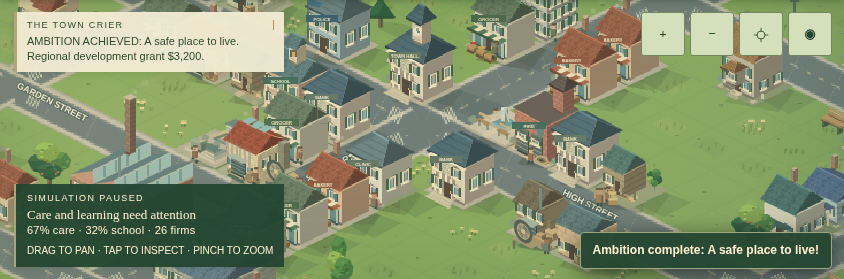
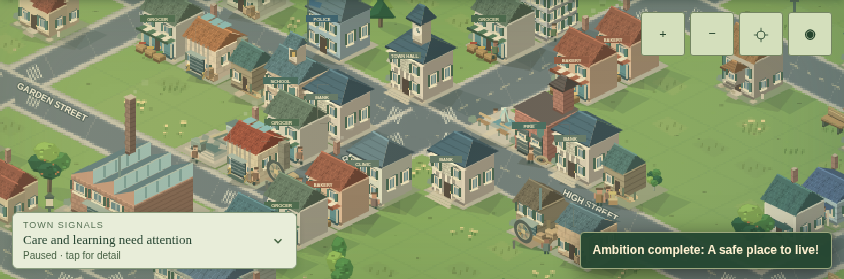
Integrate civic projects and world art with owned physical freight

Changed region(s): [[0.0, 0.6595, 0.3697, 0.9749], [0.0, 0.0287, 0.3389, 0.2581]]

diff --git a/assets/game.js b/assets/game.js
@@ -1435,7 +1435,7 @@ function returnExportCargo(o){const f=G.firms[o.firm];if(f.closed||o.estateOwner
 function cancelRegionalShipment(id){const o=ensureRegionalTrade().shipments.find(o=>o.id===id);if(!o||o.direction==='export'&&o.stage==='outside'||o.stage==='delivering')return false;o.cancelRequested=true;return true;}
 function logisticsReturnStage(o){const m=OUTSIDE_MARKETS.find(m=>m.id===o.market),f=G.firms[o.firm],path=regionalRoadPath(f,m);if(o.direction==='import'){const returningPath=o.stage==='delivering'?o.path.slice().reverse():o.path.slice(0,o.depotIndex+1).reverse();setLogisticsStage(o,'returning',returningPath,G.day,Math.max(1,Math.ceil(returningPath.length/24)));}else{const homePath=o.path.slice(0,o.depotIndex+1).reverse();setLogisticsStage(o,'returning',homePath,G.day,Math.max(1,Math.ceil(homePath.length/24)));}}
 function handleLogisticsQueue(o,depots,s){const d=depots.find(d=>d.id===o.depot);if(!d){o.depot=-1;o.status='Depot unavailable; interchange fallback';return false;}let used=s.handling.used[d.id]||0,available=Math.max(0,d.capacity-used),remaining=o.qty-o.handled;if(d.id===-1&&s.reliefUntil>=G.day&&available<remaining){const extra=Math.min(300-s.handling.relief,remaining-available,G.treasury/.36);if(extra>0){G.treasury-=extra*.36;G.region+=extra*.36;G.cumulative.spending+=extra*.36;G.cumulative.logisticsSupport=(G.cumulative.logisticsSupport||0)+extra*.36;s.handling.relief+=extra;available+=extra;}}const fee=o.handlingFee||.04,units=Math.min(remaining,available,d.id<0?Infinity:G.region/fee);if(units<=.00001)return false;const receipts=units*fee;if(d.id>=0){G.region-=receipts;enterpriseRevenue(G.firms[d.id],receipts);G.firms[d.id].logisticsReceipts=(G.firms[d.id].logisticsReceipts||0)+receipts;}o.handled+=units;s.handling.used[d.id]=used+units;s.handling.fees+=receipts;return o.handled+1e-8>=o.qty;}
-function settleRegionalArrival(o){const f=G.firms[o.firm],s=ensureRegionalTrade();if(o.direction==='import'){if(f.closed||o.estateOwner!=null){logisticsReturnStage(o);return false}f.stock[o.good]=(f.stock[o.good]||0)+o.qty;}else{const gross=o.qty*o.price;if(G.region+1e-8<gross){o.status='Buyer awaiting liquidity';o.stage='awaiting-payment';o.stageDue=G.day+1;return false}G.region-=gross;if(o.estateOwner!=null||f.closed)estateReceipt(f,gross,o.estateOwner??f.owner);else{enterpriseRevenue(f,gross);f.pendingCogs=(f.pendingCogs||0)+o.inventoryCost;f.pendingSalesQty=(f.pendingSalesQty||0)+o.qty;}goodsEntry(o.good,'exports',o.qty);if(G.market)G.market.externalSales+=gross;const c=s.contracts.find(c=>c.id===o.contract);if(c)c.delivered+=o.qty;}s.delivered++;if(typeof civicProjectRecordArrival==='function')civicProjectRecordArrival(o);logisticsRemember(o,'Delivered');return true;}
+function settleRegionalArrival(o){const f=G.firms[o.firm],s=ensureRegionalTrade();if(o.direction==='import'){if(f.closed||o.estateOwner!=null){logisticsReturnStage(o);return false}f.stock[o.good]=(f.stock[o.good]||0)+o.qty;}else{const gross=o.qty*o.price;if(G.region+1e-8<gross){o.status='Buyer awaiting liquidity';o.stage='awaiting-payment';o.stageDue=G.day+1;return false}G.region-=gross;if(o.estateOwner!=null||f.closed)estateReceipt(f,gross,o.estateOwner??f.owner);else{enterpriseRevenue(f,gross);f.pendingCogs=(f.pendingCogs||0)+o.inventoryCost;f.pendingSalesQty=(f.pendingSalesQty||0)+o.qty;}goodsEntry(o.good,'exports',o.qty);if(G.market)G.market.externalSales+=gross;const c=s.contracts.find(c=>c.id===o.contract);if(c)c.delivered+=o.qty;}s.delivered++;if(typeof civicProjectRecordArrival==='function')civicProjectRecordArrival({...o,status:'Delivered',arrived:G.day});logisticsRemember(o,'Delivered');return true;}
 function regionalLogisticsDay(){
  const s=ensureRegionalTrade();if(s.lastLogisticsDay===G.day)return;s.lastLogisticsDay=G.day;s.handling={day:G.day,used:{},fees:0,relief:0};for(const f of G.firms)f.logisticsReceipts=0;settleLogisticsClaims();const depots=logisticsDepots(),keep=[];
  const priority=o=>s.priority==='essentials'?(o.direction==='import'&&o.good==='food'?-2:o.direction==='import'?-1:0):s.priority==='contracts'&&o.contract?-2:0;
@@ -1462,12 +1462,12 @@ regionalFreightDay=regionalLogisticsDay;
 const logisticsLiquidationBase=liquidateFirm;liquidateFirm=function(f,reason){if(f&&!f.closed){for(const o of G.regionalTrade?.shipments||[])if(o.firm===f.id){o.estateOwner=f.owner;o.cancelRequested=true}for(const c of G.regionalTrade?.claims||[])if(c.firm===f.id)c.estateOwner=f.owner;}return logisticsLiquidationBase(f,reason)};
 function regionalShipmentVisualState(o){if(!o.stage||o.stage==='legacy-transit')return null;if(['outside','return-outside','origin-loading','awaiting-payment'].includes(o.stage))return{visible:false};return{visible:true,path:o.activePath?.length?o.activePath:o.path,started:o.stageStarted,travelDays:Math.max(1,o.stageDays),parked:['loading','unloading'].includes(o.stage)};}
 const basicTradeValidator=validateRegionalTrade;
-validateRegionalTrade=function(data){const s=data.regionalTrade;if(!s||s.version===1)return basicTradeValidator(data);if(s.version!==2||!basicTradeValidator({...data,regionalTrade:{...s,version:1}}))return false;if(s.routePreference!=null&&!['automatic','interchange','depots'].includes(s.routePreference))return false;if(!['balanced','essentials','contracts'].includes(s.priority)||!Array.isArray(s.claims)||s.claims.length>data.firms.length*3||!Number.isSafeInteger(s.cancelled)||s.cancelled<0||!Number.isInteger(s.reliefUntil)||s.reliefUntil<0||s.reliefUntil>data.day+30||!s.handling||!Number.isInteger(s.handling.day)||s.handling.day<0||s.handling.day>data.day||typeof s.handling.used!=='object'||Array.isArray(s.handling.used))return false;
+validateRegionalTrade=function(data){const s=data.regionalTrade;if(s){const validFirm=id=>Number.isInteger(id)&&id>=0&&id<data.firms.length;for(const rows of [s.shipments,s.recent,s.contracts])if(!Array.isArray(rows)||rows.some(o=>!o||!validFirm(o.firm)))return false;}if(!s||s.version===1)return basicTradeValidator(data);if(s.version!==2||!basicTradeValidator({...data,regionalTrade:{...s,version:1}}))return false;if(s.routePreference!=null&&!['automatic','interchange','depots'].includes(s.routePreference))return false;if(!['balanced','essentials','contracts'].includes(s.priority)||!Array.isArray(s.claims)||s.claims.length>data.firms.length*3||!Number.isSafeInteger(s.cancelled)||s.cancelled<0||!Number.isInteger(s.reliefUntil)||s.reliefUntil<0||s.reliefUntil>data.day+30||!s.handling||!Number.isInteger(s.handling.day)||s.handling.day<0||s.handling.day>data.day||typeof s.handling.used!=='object'||Array.isArray(s.handling.used))return false;
  const contractIDs=new Set();if(s.contracts.some(c=>!Number.isInteger(c.id)||c.id<1||c.id>s.serial||contractIDs.has(c.id)||(contractIDs.add(c.id),false)||!Number.isInteger(c.deadline)||c.deadline<1||c.deadline>data.day+T*T))return false;
  const owner=id=>id==null||Number.isInteger(id)&&id>=-1&&id<data.households.length,amount=n=>Number.isFinite(n)&&n>=0&&n<=1e12,roadPath=p=>Array.isArray(p)&&p.length<=T*T&&p.every((id,i)=>Number.isInteger(id)&&id>=0&&id<T*T&&(!i||Math.abs(id%T-p[i-1]%T)+Math.abs((id/T|0)-(p[i-1]/T|0))===1));
  if(![s.handling.fees,s.handling.relief].every(amount)||Object.entries(s.handling.used).some(([id,n])=>!amount(n)||!(id==='-1'||data.firms[+id]?.kind==='warehouse')))return false;
- if(s.claims.some(c=>!c||!data.firms[c.firm]||!owner(c.estateOwner)||!amount(c.regional)||!amount(c.treasury)||!Number.isInteger(c.created)||c.created<1||c.created>data.day))return false;
- return s.shipments.every(o=>LOGISTICS_STAGES.includes(o.stage)&&Number.isInteger(o.stageStarted)&&o.stageStarted>=o.started&&o.stageStarted<=data.day&&Number.isInteger(o.stageDue)&&o.stageDue>=o.stageStarted&&o.stageDue<=data.day+T*T&&Number.isInteger(o.stageDays)&&o.stageDays>=1&&o.stageDays<=T*T&&roadPath(o.activePath)&&Number.isInteger(o.depot)&&(o.depot===-1||data.firms[o.depot]?.kind==='warehouse')&&Number.isInteger(o.depotIndex)&&o.depotIndex>=0&&o.depotIndex<o.path.length&&Number.isFinite(o.handled)&&o.handled>=0&&o.handled<=o.qty+1e-7&&[o.principal,o.tariff,o.handlingFee].every(amount)&&typeof o.cancelRequested==='boolean'&&owner(o.estateOwner));
+ if(s.claims.some(c=>!c||!Number.isInteger(c.firm)||c.firm<0||!data.firms[c.firm]||!owner(c.estateOwner)||!amount(c.regional)||!amount(c.treasury)||!Number.isInteger(c.created)||c.created<1||c.created>data.day))return false;
+ return s.shipments.every(o=>o.qty<=1e8&&o.price<=1e8&&amount(o.inventoryCost)&&amount(o.freight)&&LOGISTICS_STAGES.includes(o.stage)&&Number.isInteger(o.stageStarted)&&o.stageStarted>=o.started&&o.stageStarted<=data.day&&Number.isInteger(o.stageDue)&&o.stageDue>=o.stageStarted&&o.stageDue<=data.day+T*T&&Number.isInteger(o.stageDays)&&o.stageDays>=1&&o.stageDays<=T*T&&roadPath(o.activePath)&&Number.isInteger(o.depot)&&(o.depot===-1||data.firms[o.depot]?.kind==='warehouse')&&Number.isInteger(o.depotIndex)&&o.depotIndex>=0&&o.depotIndex<o.path.length&&Number.isFinite(o.handled)&&o.handled>=0&&o.handled<=o.qty+1e-7&&[o.principal,o.tariff,o.handlingFee].every(amount)&&typeof o.cancelRequested==='boolean'&&owner(o.estateOwner));
 };
 
 function rerouteRegionalShipment(id, depot) {
@@ -1480,7 +1480,7 @@ function rerouteRegionalShipment(id, depot) {
  const charge=o.qty*(.03+Math.max(0,q.freight-o.freight/o.qty));if(f.cash<charge)return false;
  f.cash-=charge;G.region+=charge;o.freight+=charge;
  if(o.direction==='import'){const held=(f.stock[o.good]||0)+pendingGoods(f,o.good);f.unitCost[o.good]=(f.unitCost[o.good]||marketPrice(o.good))+charge/Math.max(o.qty,held);}else regionalExpense(f,charge);
- o.path=newPath;o.depotIndex=index;o.depot=q.depot;o.pickupDays=q.pickupDays;o.gatewayDays=q.gatewayDays;o.handlingFee=q.handlingFee;
+ s.routeRevision=(s.routeRevision||0)+1;o.path=newPath;o.depotIndex=index;o.depot=q.depot;o.pickupDays=q.pickupDays;o.gatewayDays=q.gatewayDays;o.handlingFee=q.handlingFee;
  setLogisticsStage(o,'collecting',transfer.slice(),G.day,Math.max(1,Math.ceil(transfer.length/24)));o.due=Math.max(o.due,G.day+o.stageDays+o.pickupDays+o.gatewayDays+m.days+1);return true;
 }
 function procurementLeadDays(f,good){if(!G.policy.imports)return 3;const quotes=OUTSIDE_MARKETS.map(m=>regionalQuote(f,m,good,'import')).filter(Boolean).sort((a,b)=>a.price+a.freight-b.price-b.freight);return quotes.length?clamp(quotes[0].days,3,20):3;}
@@ -4423,23 +4423,18 @@ function civicProjectObservation(p){
  return {met,evidence:privateRoute?'Target family '+fmt(p.learning||0)+' paid learner-days · '+terms+' fee-funded terms completed':'Target household teaching access '+fmt(coverage*100)+'% · '+terms+' new adult training terms completed',detail:privateRoute?'Purchase 30 quality-adjusted learner-days for the named household, complete one actual fee-funded term in town, and retain 20 authorized spending days. Independent proposals need financing approval and 45 funded construction workdays, then qualified staff and fee-paying learners. A term needs 120 equivalent paid teaching days.':'Deliver at least 60% funded access to the named household, finish one actual adult term, and retain 20 authorized spending days. A term needs 120 equivalent funded teaching days; recruitment takes 30 days.',setback:!h?.people.length?'The target household no longer lives here. Replan for a resident household.':m.reserve<20?'Cash covers less than 20 authorized spending days. Review the recurring promise before increasing it.':''};
 }
 function civicProjectRecordArrival(order){
- const p=G.civicProjects?.active.food;if(!p||p.status!=='active'||!p.orders.includes(order.id))return;
+ const p=G.civicProjects?.active.food;if(!p||p.status!=='active'||!order||order.status!=='Delivered'||order.direction!=='import'||order.good!=='food'||order.firm!==p.target||!Number.isFinite(order.qty)||order.qty<=0||!p.orders.includes(order.id))return;
  p.arrived+=order.qty;p.orders=p.orders.filter(id=>id!==order.id);
 }
-// Observe the existing settlement boundary, rather than trusting its bounded recent log.
-const projectRegionalFreightBase=regionalFreightDay;
-regionalFreightDay=function(){
- const town=G,p=G.civicProjects?.active.food,tracked=p?.status==='active'?(G.regionalTrade?.shipments||[]).filter(o=>p.orders.includes(o.id)):[];
- projectRegionalFreightBase();if(G!==town||!tracked.length)return;
- const pending=new Set((G.regionalTrade?.shipments||[]).map(o=>o.id));
- for(const order of tracked)if(!pending.has(order.id))civicProjectRecordArrival(order);
-};
+// Logistics calls the receipt hook only at successful settlement. Removal is
+// not evidence: cancellations, returns and recovery auctions also remove cargo.
 function civicProjectsDay(){
  const s=G.civicProjects;if(!s||s.lastDay===G.day)return;s.lastDay=G.day;
  for(const p of Object.values(s.active)){
   if(p.status!=='active'||p.lastDay===G.day)continue;p.lastDay=G.day;
   if(p.kind==='food'){
-   for(const o of G.regionalTrade?.recent||[])civicProjectRecordArrival(o);
+   for(const o of G.regionalTrade?.recent||[])if(o.status==='Delivered')civicProjectRecordArrival(o);
+   const liveOrders=new Set((G.regionalTrade?.shipments||[]).map(o=>o.id));p.orders=p.orders.filter(id=>liveOrders.has(id));
    const f=p.firm==null?null:G.firms[p.firm];if(f){p.output+=Math.max(0,f.production||0);p.sales+=Math.max(0,f.salesQty||0);p.net+=Number(f.operating?.netProfit)||0;}
   }
   if(p.kind==='skills'&&p.branch==='private'&&G.privateServiceProvision?.day===G.day){const h=G.households[p.target];p.learning=(p.learning||0)+(G.privateServiceProvision.school[p.target]||0)*(h?.people.length||0);}
@@ -4506,7 +4501,7 @@ function civicProjectReviewFood(){
  const remaining=Math.max(0,180-p.arrived-(G.regionalTrade?.shipments||[]).filter(o=>p.orders.includes(o.id)).reduce((n,o)=>n+o.qty,0));if(remaining<.001){toast('The commissioned food is already travelling. Track its actual arrival before ordering again.');return;}
  const q=OUTSIDE_MARKETS.map(m=>regionalQuote(f,m,'food','import')).filter(Boolean).sort((a,b)=>(a.price*(1+G.policy.importTariff/100)+a.freight)-(b.price*(1+G.policy.importTariff/100)+b.freight))[0];if(!q){toast('No regional road reaches this shop. Restore the connection first.');return;}
  const amount=Math.min(remaining,180),cost=amount*(q.price*(1+G.policy.importTariff/100)+q.freight),town=G,pid=p.id;
- showCustomEvent('CIVIC PROJECT','A food bridge for '+f.name,fmt(amount)+' food from '+q.m.name+'; estimated '+money(cost)+' paid by this enterprise, approximately '+q.days+' days in transit. Shop cash '+money(f.cash)+'. Tariffs and freight are included. Imported stock can compete with local producers; loading capacity can split the order. The town gets no grant.',[{title:'Place the paid project order',cost:0,apply:()=>{const current=G.civicProjects?.active.food;if(G!==town||current?.id!==pid||!G.policy.imports||f.closed){toast('The project or import policy changed.');return;}const s=ensureRegionalTrade(),before=s.serial,n=dispatchRegional(f,'food',amount,'import',regionalQuote(f,q.m,'food','import'));if(n>0){current.orders.push(...s.shipments.filter(o=>o.id>before&&o.firm===f.id).map(o=>o.id));save();}else toast('Working capital or loading capacity is unavailable; no order was placed.');openCivicProjects('food');}}]);
+ showCustomEvent('CIVIC PROJECT','A food bridge for '+f.name,fmt(amount)+' food from '+q.m.name+'; estimated '+money(cost)+' paid by this enterprise, approximately '+q.days+' days in transit. Shop cash '+money(f.cash)+'. Tariffs and freight are included. Imported stock can compete with local producers; loading capacity can split the order. The town gets no grant.',[{title:'Place the paid project order',cost:0,apply:()=>{const current=G.civicProjects?.active.food;if(G!==town||current?.id!==pid||!G.policy.imports||f.closed){toast('The project or import policy changed.');return;}const s=ensureRegionalTrade(),before=s.serial;let n=0;for(let lot=0;lot<2&&n+.001<amount;lot++){const accepted=dispatchRegional(f,'food',amount-n,'import',regionalQuote(f,q.m,'food','import'));if(!accepted)break;n+=accepted;}if(n>0){current.orders.push(...s.shipments.filter(o=>o.id>before&&o.firm===f.id).map(o=>o.id));save();}else toast('Working capital or loading capacity is unavailable; no order was placed.');openCivicProjects('food');}}]);
 }
 function civicProjectSchoolBudget(){
  const estimate=Math.ceil(G.stats.population*CIVIC_STANDARDS.school.staff/CIVIC_STANDARDS.school.capacity*Math.max(24,G.policy.minWage)/.65/10)*10,target=clamp(Math.max(G.policy.educationBudget,estimate),0,500),increase=target-G.policy.educationBudget;
@@ -5277,17 +5272,17 @@ function paintNightScene(g,items){
 let overviewFreightCache=null;
 function overviewFreight(){
  const orders=G.regionalTrade?.shipments,net=graph();
- if(overviewFreightCache?.orders===orders&&overviewFreightCache.net===net&&overviewFreightCache.count===(orders?.length||0))return overviewFreightCache.rows;
+ if(overviewFreightCache?.orders===orders&&overviewFreightCache.net===net&&overviewFreightCache.count===(orders?.length||0)&&overviewFreightCache.revision===(G.regionalTrade?.routeRevision||0))return overviewFreightCache.rows;
  const rows=[];
  for(const market of OUTSIDE_MARKETS){let inbound=0,outbound=0,quantity=0,example=null;
-  for(const order of orders||[]){if(order.market!==market.id)continue;if(order.direction==='import')inbound++;else outbound++;quantity+=order.qty;example=example||order;}
+  for(const order of orders||[]){if(order.market!==market.id)continue;const returning=['returning','return-outside'].includes(order.stage);if((order.direction==='import')!==returning)inbound++;else outbound++;quantity+=order.qty;example=example||order;}
   if(!example)continue;
   // Preserve the actual representative road route, reducing only straight runs.
   const path=example.path,points=[];for(let i=0;i<path.length;i++){const id=path[i],before=path[i-1],after=path[i+1];if(i&&i<path.length-1&&id-before===after-id)continue;points.push(roadCenter(id));}
   const gate=regionalGateway(market);if(gate==null)continue;
   rows.push({market:market.id,inbound,outbound,quantity,points,gate:roadCenter(gate)});
  }
- overviewFreightCache={orders,net,rows,count:orders?.length||0};return rows;
+ overviewFreightCache={orders,net,rows,count:orders?.length||0,revision:G.regionalTrade?.routeRevision||0};return rows;
 }
 function drawDistrictLife(g,visible){
  if(!gameOptions.decor)return;
@@ -5300,7 +5295,7 @@ function drawDistrictLife(g,visible){
    g.fillStyle='#344f45e8';g.fillRect(p[0]-width/2,p[1]-16/z,width,12/z);g.fillStyle='#f2dfaa';g.textAlign='center';g.fillText(text,p[0],p[1]-7/z);
   }
   // These are active consignments, not invented trucks or instantaneous sales.
-  if(rows.length){g.setTransform(dpr,0,0,dpr,0,0);g.font='7px Arial';g.fillStyle='#e9dfbf';g.textAlign='center';g.fillText(rows.reduce((n,r)=>n+r.inbound+r.outbound,0)+' LOADS IN TRANSIT · dotted routes are samples',cw*.53,12);transform();}
+  if(rows.length){g.setTransform(dpr,0,0,dpr,0,0);g.font='7px Arial';g.fillStyle='#e9dfbf';g.textAlign='center';g.fillText(rows.reduce((n,r)=>n+r.inbound+r.outbound,0)+' OWNED LOADS · queues/outside legs included',cw*.53,12);transform();}
   g.restore();
  }
  if(z>=.45&&z<1){

diff --git a/src/26-logistics.js b/src/26-logistics.js
@@ -30,7 +30,7 @@ function returnExportCargo(o){const f=G.firms[o.firm];if(f.closed||o.estateOwner
 function cancelRegionalShipment(id){const o=ensureRegionalTrade().shipments.find(o=>o.id===id);if(!o||o.direction==='export'&&o.stage==='outside'||o.stage==='delivering')return false;o.cancelRequested=true;return true;}
 function logisticsReturnStage(o){const m=OUTSIDE_MARKETS.find(m=>m.id===o.market),f=G.firms[o.firm],path=regionalRoadPath(f,m);if(o.direction==='import'){const returningPath=o.stage==='delivering'?o.path.slice().reverse():o.path.slice(0,o.depotIndex+1).reverse();setLogisticsStage(o,'returning',returningPath,G.day,Math.max(1,Math.ceil(returningPath.length/24)));}else{const homePath=o.path.slice(0,o.depotIndex+1).reverse();setLogisticsStage(o,'returning',homePath,G.day,Math.max(1,Math.ceil(homePath.length/24)));}}
 function handleLogisticsQueue(o,depots,s){const d=depots.find(d=>d.id===o.depot);if(!d){o.depot=-1;o.status='Depot unavailable; interchange fallback';return false;}let used=s.handling.used[d.id]||0,available=Math.max(0,d.capacity-used),remaining=o.qty-o.handled;if(d.id===-1&&s.reliefUntil>=G.day&&available<remaining){const extra=Math.min(300-s.handling.relief,remaining-available,G.treasury/.36);if(extra>0){G.treasury-=extra*.36;G.region+=extra*.36;G.cumulative.spending+=extra*.36;G.cumulative.logisticsSupport=(G.cumulative.logisticsSupport||0)+extra*.36;s.handling.relief+=extra;available+=extra;}}const fee=o.handlingFee||.04,units=Math.min(remaining,available,d.id<0?Infinity:G.region/fee);if(units<=.00001)return false;const receipts=units*fee;if(d.id>=0){G.region-=receipts;enterpriseRevenue(G.firms[d.id],receipts);G.firms[d.id].logisticsReceipts=(G.firms[d.id].logisticsReceipts||0)+receipts;}o.handled+=units;s.handling.used[d.id]=used+units;s.handling.fees+=receipts;return o.handled+1e-8>=o.qty;}
-function settleRegionalArrival(o){const f=G.firms[o.firm],s=ensureRegionalTrade();if(o.direction==='import'){if(f.closed||o.estateOwner!=null){logisticsReturnStage(o);return false}f.stock[o.good]=(f.stock[o.good]||0)+o.qty;}else{const gross=o.qty*o.price;if(G.region+1e-8<gross){o.status='Buyer awaiting liquidity';o.stage='awaiting-payment';o.stageDue=G.day+1;return false}G.region-=gross;if(o.estateOwner!=null||f.closed)estateReceipt(f,gross,o.estateOwner??f.owner);else{enterpriseRevenue(f,gross);f.pendingCogs=(f.pendingCogs||0)+o.inventoryCost;f.pendingSalesQty=(f.pendingSalesQty||0)+o.qty;}goodsEntry(o.good,'exports',o.qty);if(G.market)G.market.externalSales+=gross;const c=s.contracts.find(c=>c.id===o.contract);if(c)c.delivered+=o.qty;}s.delivered++;if(typeof civicProjectRecordArrival==='function')civicProjectRecordArrival(o);logisticsRemember(o,'Delivered');return true;}
+function settleRegionalArrival(o){const f=G.firms[o.firm],s=ensureRegionalTrade();if(o.direction==='import'){if(f.closed||o.estateOwner!=null){logisticsReturnStage(o);return false}f.stock[o.good]=(f.stock[o.good]||0)+o.qty;}else{const gross=o.qty*o.price;if(G.region+1e-8<gross){o.status='Buyer awaiting liquidity';o.stage='awaiting-payment';o.stageDue=G.day+1;return false}G.region-=gross;if(o.estateOwner!=null||f.closed)estateReceipt(f,gross,o.estateOwner??f.owner);else{enterpriseRevenue(f,gross);f.pendingCogs=(f.pendingCogs||0)+o.inventoryCost;f.pendingSalesQty=(f.pendingSalesQty||0)+o.qty;}goodsEntry(o.good,'exports',o.qty);if(G.market)G.market.externalSales+=gross;const c=s.contracts.find(c=>c.id===o.contract);if(c)c.delivered+=o.qty;}s.delivered++;if(typeof civicProjectRecordArrival==='function')civicProjectRecordArrival({...o,status:'Delivered',arrived:G.day});logisticsRemember(o,'Delivered');return true;}
 function regionalLogisticsDay(){
  const s=ensureRegionalTrade();if(s.lastLogisticsDay===G.day)return;s.lastLogisticsDay=G.day;s.handling={day:G.day,used:{},fees:0,relief:0};for(const f of G.firms)f.logisticsReceipts=0;settleLogisticsClaims();const depots=logisticsDepots(),keep=[];
  const priority=o=>s.priority==='essentials'?(o.direction==='import'&&o.good==='food'?-2:o.direction==='import'?-1:0):s.priority==='contracts'&&o.contract?-2:0;
@@ -57,12 +57,12 @@ regionalFreightDay=regionalLogisticsDay;
 const logisticsLiquidationBase=liquidateFirm;liquidateFirm=function(f,reason){if(f&&!f.closed){for(const o of G.regionalTrade?.shipments||[])if(o.firm===f.id){o.estateOwner=f.owner;o.cancelRequested=true}for(const c of G.regionalTrade?.claims||[])if(c.firm===f.id)c.estateOwner=f.owner;}return logisticsLiquidationBase(f,reason)};
 function regionalShipmentVisualState(o){if(!o.stage||o.stage==='legacy-transit')return null;if(['outside','return-outside','origin-loading','awaiting-payment'].includes(o.stage))return{visible:false};return{visible:true,path:o.activePath?.length?o.activePath:o.path,started:o.stageStarted,travelDays:Math.max(1,o.stageDays),parked:['loading','unloading'].includes(o.stage)};}
 const basicTradeValidator=validateRegionalTrade;
-validateRegionalTrade=function(data){const s=data.regionalTrade;if(!s||s.version===1)return basicTradeValidator(data);if(s.version!==2||!basicTradeValidator({...data,regionalTrade:{...s,version:1}}))return false;if(s.routePreference!=null&&!['automatic','interchange','depots'].includes(s.routePreference))return false;if(!['balanced','essentials','contracts'].includes(s.priority)||!Array.isArray(s.claims)||s.claims.length>data.firms.length*3||!Number.isSafeInteger(s.cancelled)||s.cancelled<0||!Number.isInteger(s.reliefUntil)||s.reliefUntil<0||s.reliefUntil>data.day+30||!s.handling||!Number.isInteger(s.handling.day)||s.handling.day<0||s.handling.day>data.day||typeof s.handling.used!=='object'||Array.isArray(s.handling.used))return false;
+validateRegionalTrade=function(data){const s=data.regionalTrade;if(s){const validFirm=id=>Number.isInteger(id)&&id>=0&&id<data.firms.length;for(const rows of [s.shipments,s.recent,s.contracts])if(!Array.isArray(rows)||rows.some(o=>!o||!validFirm(o.firm)))return false;}if(!s||s.version===1)return basicTradeValidator(data);if(s.version!==2||!basicTradeValidator({...data,regionalTrade:{...s,version:1}}))return false;if(s.routePreference!=null&&!['automatic','interchange','depots'].includes(s.routePreference))return false;if(!['balanced','essentials','contracts'].includes(s.priority)||!Array.isArray(s.claims)||s.claims.length>data.firms.length*3||!Number.isSafeInteger(s.cancelled)||s.cancelled<0||!Number.isInteger(s.reliefUntil)||s.reliefUntil<0||s.reliefUntil>data.day+30||!s.handling||!Number.isInteger(s.handling.day)||s.handling.day<0||s.handling.day>data.day||typeof s.handling.used!=='object'||Array.isArray(s.handling.used))return false;
  const contractIDs=new Set();if(s.contracts.some(c=>!Number.isInteger(c.id)||c.id<1||c.id>s.serial||contractIDs.has(c.id)||(contractIDs.add(c.id),false)||!Number.isInteger(c.deadline)||c.deadline<1||c.deadline>data.day+T*T))return false;
  const owner=id=>id==null||Number.isInteger(id)&&id>=-1&&id<data.households.length,amount=n=>Number.isFinite(n)&&n>=0&&n<=1e12,roadPath=p=>Array.isArray(p)&&p.length<=T*T&&p.every((id,i)=>Number.isInteger(id)&&id>=0&&id<T*T&&(!i||Math.abs(id%T-p[i-1]%T)+Math.abs((id/T|0)-(p[i-1]/T|0))===1));
  if(![s.handling.fees,s.handling.relief].every(amount)||Object.entries(s.handling.used).some(([id,n])=>!amount(n)||!(id==='-1'||data.firms[+id]?.kind==='warehouse')))return false;
- if(s.claims.some(c=>!c||!data.firms[c.firm]||!owner(c.estateOwner)||!amount(c.regional)||!amount(c.treasury)||!Number.isInteger(c.created)||c.created<1||c.created>data.day))return false;
- return s.shipments.every(o=>LOGISTICS_STAGES.includes(o.stage)&&Number.isInteger(o.stageStarted)&&o.stageStarted>=o.started&&o.stageStarted<=data.day&&Number.isInteger(o.stageDue)&&o.stageDue>=o.stageStarted&&o.stageDue<=data.day+T*T&&Number.isInteger(o.stageDays)&&o.stageDays>=1&&o.stageDays<=T*T&&roadPath(o.activePath)&&Number.isInteger(o.depot)&&(o.depot===-1||data.firms[o.depot]?.kind==='warehouse')&&Number.isInteger(o.depotIndex)&&o.depotIndex>=0&&o.depotIndex<o.path.length&&Number.isFinite(o.handled)&&o.handled>=0&&o.handled<=o.qty+1e-7&&[o.principal,o.tariff,o.handlingFee].every(amount)&&typeof o.cancelRequested==='boolean'&&owner(o.estateOwner));
+ if(s.claims.some(c=>!c||!Number.isInteger(c.firm)||c.firm<0||!data.firms[c.firm]||!owner(c.estateOwner)||!amount(c.regional)||!amount(c.treasury)||!Number.isInteger(c.created)||c.created<1||c.created>data.day))return false;
+ return s.shipments.every(o=>o.qty<=1e8&&o.price<=1e8&&amount(o.inventoryCost)&&amount(o.freight)&&LOGISTICS_STAGES.includes(o.stage)&&Number.isInteger(o.stageStarted)&&o.stageStarted>=o.started&&o.stageStarted<=data.day&&Number.isInteger(o.stageDue)&&o.stageDue>=o.stageStarted&&o.stageDue<=data.day+T*T&&Number.isInteger(o.stageDays)&&o.stageDays>=1&&o.stageDays<=T*T&&roadPath(o.activePath)&&Number.isInteger(o.depot)&&(o.depot===-1||data.firms[o.depot]?.kind==='warehouse')&&Number.isInteger(o.depotIndex)&&o.depotIndex>=0&&o.depotIndex<o.path.length&&Number.isFinite(o.handled)&&o.handled>=0&&o.handled<=o.qty+1e-7&&[o.principal,o.tariff,o.handlingFee].every(amount)&&typeof o.cancelRequested==='boolean'&&owner(o.estateOwner));
 };
 
 function rerouteRegionalShipment(id, depot) {
@@ -75,7 +75,7 @@ function rerouteRegionalShipment(id, depot) {
  const charge=o.qty*(.03+Math.max(0,q.freight-o.freight/o.qty));if(f.cash<charge)return false;
  f.cash-=charge;G.region+=charge;o.freight+=charge;
  if(o.direction==='import'){const held=(f.stock[o.good]||0)+pendingGoods(f,o.good);f.unitCost[o.good]=(f.unitCost[o.good]||marketPrice(o.good))+charge/Math.max(o.qty,held);}else regionalExpense(f,charge);
- o.path=newPath;o.depotIndex=index;o.depot=q.depot;o.pickupDays=q.pickupDays;o.gatewayDays=q.gatewayDays;o.handlingFee=q.handlingFee;
+ s.routeRevision=(s.routeRevision||0)+1;o.path=newPath;o.depotIndex=index;o.depot=q.depot;o.pickupDays=q.pickupDays;o.gatewayDays=q.gatewayDays;o.handlingFee=q.handlingFee;
  setLogisticsStage(o,'collecting',transfer.slice(),G.day,Math.max(1,Math.ceil(transfer.length/24)));o.due=Math.max(o.due,G.day+o.stageDays+o.pickupDays+o.gatewayDays+m.days+1);return true;
 }
 function procurementLeadDays(f,good){if(!G.policy.imports)return 3;const quotes=OUTSIDE_MARKETS.map(m=>regionalQuote(f,m,good,'import')).filter(Boolean).sort((a,b)=>a.price+a.freight-b.price-b.freight);return quotes.length?clamp(quotes[0].days,3,20):3;}

diff --git a/src/98-project-opportunities.js b/src/98-project-opportunities.js
@@ -36,23 +36,18 @@ function civicProjectObservation(p){
  return {met,evidence:privateRoute?'Target family '+fmt(p.learning||0)+' paid learner-days · '+terms+' fee-funded terms completed':'Target household teaching access '+fmt(coverage*100)+'% · '+terms+' new adult training terms completed',detail:privateRoute?'Purchase 30 quality-adjusted learner-days for the named household, complete one actual fee-funded term in town, and retain 20 authorized spending days. Independent proposals need financing approval and 45 funded construction workdays, then qualified staff and fee-paying learners. A term needs 120 equivalent paid teaching days.':'Deliver at least 60% funded access to the named household, finish one actual adult term, and retain 20 authorized spending days. A term needs 120 equivalent funded teaching days; recruitment takes 30 days.',setback:!h?.people.length?'The target household no longer lives here. Replan for a resident household.':m.reserve<20?'Cash covers less than 20 authorized spending days. Review the recurring promise before increasing it.':''};
 }
 function civicProjectRecordArrival(order){
- const p=G.civicProjects?.active.food;if(!p||p.status!=='active'||!p.orders.includes(order.id))return;
+ const p=G.civicProjects?.active.food;if(!p||p.status!=='active'||!order||order.status!=='Delivered'||order.direction!=='import'||order.good!=='food'||order.firm!==p.target||!Number.isFinite(order.qty)||order.qty<=0||!p.orders.includes(order.id))return;
  p.arrived+=order.qty;p.orders=p.orders.filter(id=>id!==order.id);
 }
-// Observe the existing settlement boundary, rather than trusting its bounded recent log.
-const projectRegionalFreightBase=regionalFreightDay;
-regionalFreightDay=function(){
- const town=G,p=G.civicProjects?.active.food,tracked=p?.status==='active'?(G.regionalTrade?.shipments||[]).filter(o=>p.orders.includes(o.id)):[];
- projectRegionalFreightBase();if(G!==town||!tracked.length)return;
- const pending=new Set((G.regionalTrade?.shipments||[]).map(o=>o.id));
- for(const order of tracked)if(!pending.has(order.id))civicProjectRecordArrival(order);
-};
+// Logistics calls the receipt hook only at successful settlement. Removal is
+// not evidence: cancellations, returns and recovery auctions also remove cargo.
 function civicProjectsDay(){
  const s=G.civicProjects;if(!s||s.lastDay===G.day)return;s.lastDay=G.day;
  for(const p of Object.values(s.active)){
   if(p.status!=='active'||p.lastDay===G.day)continue;p.lastDay=G.day;
   if(p.kind==='food'){
-   for(const o of G.regionalTrade?.recent||[])civicProjectRecordArrival(o);
+   for(const o of G.regionalTrade?.recent||[])if(o.status==='Delivered')civicProjectRecordArrival(o);
+   const liveOrders=new Set((G.regionalTrade?.shipments||[]).map(o=>o.id));p.orders=p.orders.filter(id=>liveOrders.has(id));
    const f=p.firm==null?null:G.firms[p.firm];if(f){p.output+=Math.max(0,f.production||0);p.sales+=Math.max(0,f.salesQty||0);p.net+=Number(f.operating?.netProfit)||0;}
   }
   if(p.kind==='skills'&&p.branch==='private'&&G.privateServiceProvision?.day===G.day){const h=G.households[p.target];p.learning=(p.learning||0)+(G.privateServiceProvision.school[p.target]||0)*(h?.people.length||0);}
@@ -119,7 +114,7 @@ function civicProjectReviewFood(){
  const remaining=Math.max(0,180-p.arrived-(G.regionalTrade?.shipments||[]).filter(o=>p.orders.includes(o.id)).reduce((n,o)=>n+o.qty,0));if(remaining<.001){toast('The commissioned food is already travelling. Track its actual arrival before ordering again.');return;}
  const q=OUTSIDE_MARKETS.map(m=>regionalQuote(f,m,'food','import')).filter(Boolean).sort((a,b)=>(a.price*(1+G.policy.importTariff/100)+a.freight)-(b.price*(1+G.policy.importTariff/100)+b.freight))[0];if(!q){toast('No regional road reaches this shop. Restore the connection first.');return;}
  const amount=Math.min(remaining,180),cost=amount*(q.price*(1+G.policy.importTariff/100)+q.freight),town=G,pid=p.id;
- showCustomEvent('CIVIC PROJECT','A food bridge for '+f.name,fmt(amount)+' food from '+q.m.name+'; estimated '+money(cost)+' paid by this enterprise, approximately '+q.days+' days in transit. Shop cash '+money(f.cash)+'. Tariffs and freight are included. Imported stock can compete with local producers; loading capacity can split the order. The town gets no grant.',[{title:'Place the paid project order',cost:0,apply:()=>{const current=G.civicProjects?.active.food;if(G!==town||current?.id!==pid||!G.policy.imports||f.closed){toast('The project or import policy changed.');return;}const s=ensureRegionalTrade(),before=s.serial,n=dispatchRegional(f,'food',amount,'import',regionalQuote(f,q.m,'food','import'));if(n>0){current.orders.push(...s.shipments.filter(o=>o.id>before&&o.firm===f.id).map(o=>o.id));save();}else toast('Working capital or loading capacity is unavailable; no order was placed.');openCivicProjects('food');}}]);
+ showCustomEvent('CIVIC PROJECT','A food bridge for '+f.name,fmt(amount)+' food from '+q.m.name+'; estimated '+money(cost)+' paid by this enterprise, approximately '+q.days+' days in transit. Shop cash '+money(f.cash)+'. Tariffs and freight are included. Imported stock can compete with local producers; loading capacity can split the order. The town gets no grant.',[{title:'Place the paid project order',cost:0,apply:()=>{const current=G.civicProjects?.active.food;if(G!==town||current?.id!==pid||!G.policy.imports||f.closed){toast('The project or import policy changed.');return;}const s=ensureRegionalTrade(),before=s.serial;let n=0;for(let lot=0;lot<2&&n+.001<amount;lot++){const accepted=dispatchRegional(f,'food',amount-n,'import',regionalQuote(f,q.m,'food','import'));if(!accepted)break;n+=accepted;}if(n>0){current.orders.push(...s.shipments.filter(o=>o.id>before&&o.firm===f.id).map(o=>o.id));save();}else toast('Working capital or loading capacity is unavailable; no order was placed.');openCivicProjects('food');}}]);
 }
 function civicProjectSchoolBudget(){
  const estimate=Math.ceil(G.stats.population*CIVIC_STANDARDS.school.staff/CIVIC_STANDARDS.school.capacity*Math.max(24,G.policy.minWage)/.65/10)*10,target=clamp(Math.max(G.policy.educationBudget,estimate),0,500),increase=target-G.policy.educationBudget;

diff --git a/src/98zzzz-district-life.js b/src/98zzzz-district-life.js
@@ -3,17 +3,17 @@
 let overviewFreightCache=null;
 function overviewFreight(){
  const orders=G.regionalTrade?.shipments,net=graph();
- if(overviewFreightCache?.orders===orders&&overviewFreightCache.net===net&&overviewFreightCache.count===(orders?.length||0))return overviewFreightCache.rows;
+ if(overviewFreightCache?.orders===orders&&overviewFreightCache.net===net&&overviewFreightCache.count===(orders?.length||0)&&overviewFreightCache.revision===(G.regionalTrade?.routeRevision||0))return overviewFreightCache.rows;
  const rows=[];
  for(const market of OUTSIDE_MARKETS){let inbound=0,outbound=0,quantity=0,example=null;
-  for(const order of orders||[]){if(order.market!==market.id)continue;if(order.direction==='import')inbound++;else outbound++;quantity+=order.qty;example=example||order;}
+  for(const order of orders||[]){if(order.market!==market.id)continue;const returning=['returning','return-outside'].includes(order.stage);if((order.direction==='import')!==returning)inbound++;else outbound++;quantity+=order.qty;example=example||order;}
   if(!example)continue;
   // Preserve the actual representative road route, reducing only straight runs.
   const path=example.path,points=[];for(let i=0;i<path.length;i++){const id=path[i],before=path[i-1],after=path[i+1];if(i&&i<path.length-1&&id-before===after-id)continue;points.push(roadCenter(id));}
   const gate=regionalGateway(market);if(gate==null)continue;
   rows.push({market:market.id,inbound,outbound,quantity,points,gate:roadCenter(gate)});
  }
- overviewFreightCache={orders,net,rows,count:orders?.length||0};return rows;
+ overviewFreightCache={orders,net,rows,count:orders?.length||0,revision:G.regionalTrade?.routeRevision||0};return rows;
 }
 function drawDistrictLife(g,visible){
  if(!gameOptions.decor)return;
@@ -26,7 +26,7 @@ function drawDistrictLife(g,visible){
    g.fillStyle='#344f45e8';g.fillRect(p[0]-width/2,p[1]-16/z,width,12/z);g.fillStyle='#f2dfaa';g.textAlign='center';g.fillText(text,p[0],p[1]-7/z);
   }
   // These are active consignments, not invented trucks or instantaneous sales.
-  if(rows.length){g.setTransform(dpr,0,0,dpr,0,0);g.font='7px Arial';g.fillStyle='#e9dfbf';g.textAlign='center';g.fillText(rows.reduce((n,r)=>n+r.inbound+r.outbound,0)+' LOADS IN TRANSIT · dotted routes are samples',cw*.53,12);transform();}
+  if(rows.length){g.setTransform(dpr,0,0,dpr,0,0);g.font='7px Arial';g.fillStyle='#e9dfbf';g.textAlign='center';g.fillText(rows.reduce((n,r)=>n+r.inbound+r.outbound,0)+' OWNED LOADS · queues/outside legs included',cw*.53,12);transform();}
   g.restore();
  }
  if(z>=.45&&z<1){

diff --git a/tests/test_civic_project_freight.py b/tests/test_civic_project_freight.py
@@ -7,9 +7,9 @@ probe='''
 window.__projectDeliveryOverflow=()=>{const original=G;try{
  G=JSON.parse(JSON.stringify(original));delete G.civicProjects;const f=civicProjectGrocer(),m=OUTSIDE_MARKETS[0],q=regionalQuote(f,m,'food','import'),total=totalMoney();
  if(!q)throw Error('Fixture has no connected market');civicProjectStart('food','bridge',f.id);
- const p=G.civicProjects.active.food,s=ensureRegionalTrade();if(dispatchRegional(f,'food',180,'import',q)!==180)throw Error('Project order unavailable');const id=fromEnd(s.shipments).id;p.orders=[id];
+ const p=G.civicProjects.active.food,s=ensureRegionalTrade();if(dispatchRegional(f,'food',120,'import',q)!==120)throw Error('Project lot unavailable');const id=fromEnd(s.shipments).id;if(dispatchRegional(f,'food',60,'import',q)!==60)throw Error('Project second lot unavailable');p.orders=[id,fromEnd(s.shipments).id];
  for(let n=0;n<42;n++)if(dispatchRegional(f,'food',1,'import',q)!==1)throw Error('Overflow fixture could not pay for real cargo');
- G.day=fromEnd(s.shipments).due;regionalFreightDay();
+ for(let day=0;day<60&&s.shipments.length;day++){G.day++;regionalFreightDay();}
  if(s.recent.some(o=>o.id===id))throw Error('Fixture failed to overflow recent log');
  if(p.arrived!==180||p.orders.length)throw Error('Project lost delivery after bounded log overflow');regionalFreightDay();if(p.arrived!==180)throw Error('Delivery counted twice');
  if(Math.abs(totalMoney()-total)>.001)throw Error('Observer changed cash');const goodsError=Math.max(...goodsBalance().map(a=>Math.abs(a.error)));if(goodsError>.001)throw Error('Observer changed physical goods');
@@ -20,4 +20,4 @@ window.__projectDeliveryOverflow=()=>{const original=G;try{
 with sync_playwright() as pw:
  b=pw.chromium.launch(executable_path='/usr/bin/chromium',args=['--no-sandbox']);page=b.new_page(viewport={'width':844,'height':390});page.set_content(html);page.add_script_tag(content=source.replace('// SOURCE: 99-instrumentation.js',probe+'\n// SOURCE: 99-instrumentation.js'));page.locator('#townSeed').fill('42');page.locator('#newTown').click();page.locator('#pause').click();result=page.evaluate('__projectDeliveryOverflow()');b.close()
 out=ROOT/'reports/civic-projects';out.mkdir(parents=True,exist_ok=True);(out/'freight-observer.json').write_text(json.dumps({'source_sha256':hashlib.sha256(source.encode()).hexdigest(),'controlledStressFixture':True,**result},indent=2)+'\n')
-print('PASS 43 actual paid deliveries overflowing recent log, commissioned arrival exactly once, unchanged cash/goods and valid archive')
+print('PASS 44 actual paid deliveries overflowing recent log, commissioned arrival exactly once, unchanged cash/goods and valid archive')

diff --git a/tests/test_release.py b/tests/test_release.py
@@ -22,7 +22,10 @@ with sync_playwright() as pw:
     page.locator('#newTown').click()
     page.locator('#panelClose').click()
     page.locator('#pause').click()
+    assert page.locator('#mapStatusContext').inner_text().startswith('Paused')
+    page.locator('#mapStatusToggle').click()
     assert page.locator('#pauseBanner').is_visible()
+    page.locator('#mapStatusToggle').click()
     record('determinism_and_continuation',page.evaluate('''()=>{
        function core(){const g=JSON.parse(__townTest.save());delete g.trafficState;delete g.visualState;return JSON.stringify(g,Object.keys(g).sort());}
        function normalized(){const g=JSON.parse(__townTest.save());delete g.trafficState;delete g.visualState;return g;}
